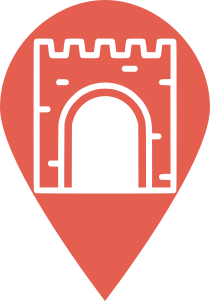
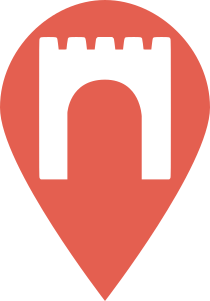
gps fixed

Changed region(s): [[0.1429, 0.1196, 0.8571, 0.6578]]

diff --git a/map/assets/js/map-bevagna-it.js b/map/assets/js/map-bevagna-it.js
@@ -312,9 +312,10 @@ var stores = {
         city: "Bevagna",
         country: "Italy",
         postalCode: "06031",
-        description_it: "Auditorium",
+        description_it: "La parrocchia fu fondata da un gruppo di 34 famiglie rifugiatesi a Bevagna in seguito alla distruzione, ordinata dal pontefice, dei castelli di Antignano, fedele a Federico II di Svevia.\n\n La chiesa, oggi sconsacrata e usata come Auditorium, conserva un bel portale con un rilievo che raffigura la Madonna che allatta il Bambino.",
         description_en: "Auditorium",
         markerType: "events",
+        img: "./assets/img/card_background/bevagna_santa_maria_laurentia1.jpg",
       },
     },
     {
@@ -387,7 +388,6 @@ var stores = {
         description_it: "Se non hai l'app Zappar potrai scaricarla cliccando sul link sottostante",
         description_en: "If you don't have the Zappar app, you'll be redirected to the app store to download it, then you can enjoy the portal!",
         markerType: "portals",
-        img: "./assets/img/Portal-TOCC-Untitled_project.svg",
         site: "https://webxr.run/Vb5Adgw582d6Z",
       },
     },
@@ -545,6 +545,7 @@ var stores = {
         description_it: "Chiesa principale di Bevagna",
         description_en: "Main church in Bevagna",
         markerType: "tourism",
+        img: "./assets/img/card_background/san_michele_arcangelo.jpeg"
       },
     },
     {
@@ -562,6 +563,7 @@ var stores = {
         description_it: "Chiesa di Bevagna",
         description_en: "Church in Bevagna",
         markerType: "tourism",
+        img: "./assets/img/card_background/san_silvestro.png"
       },
     },
     {
@@ -579,13 +581,14 @@ var stores = {
         description_it: "Edificata da Rainaldo I conte di Antignano, la chiesetta, oggi sconsacrata, è la più antica tra quelle conservate: se ne hanno notizie fin dal 1198.",
         description_en: "Built by Rainaldo I count of Antignano, the little church, now deconsecrated, is the oldest among those preserved: there are news of it since 1198.",
         markerType: "tourism",
+        img: "./assets/img/card_background/santa_maria_filiorum.jpeg"
       },
     },
     {
       type: "Feature",
       geometry: {
         type: "Point",
-        coordinates: [12.610415787761626, 42.93458778655827],
+        coordinates: [12.608365658627687, 42.932903552052515],
       }, 
       properties: {
         address_it: "Chiesa dei Santi Domenico e Giacomo",
@@ -755,6 +758,8 @@ var stores = {
   ],
 };
 
+
+
 /**
  * Assign a unique id to each store. You'll use this `id`
  * later to associate each point on the map with a listing
@@ -774,6 +779,33 @@ var geolocateControl = new mapboxgl.GeolocateControl({
 });
 
 map.addControl(geolocateControl);
+
+// Save geolocation status in localStorage
+function saveGeolocationStatus(isEnabled) {
+  localStorage.setItem('geolocationEnabled', isEnabled);
+}
+
+// Retrieve geolocation status from localStorage
+function getGeolocationStatus() {
+  return localStorage.getItem('geolocationEnabled') === 'true';
+}
+
+// Usage example when activating geolocation
+if (getGeolocationStatus()) {
+  // Code to activate geolocation
+  activateGeolocation();
+}
+
+// Update geolocation status whenever it's toggled
+function activateGeolocation() {
+  saveGeolocationStatus(true);
+  // Code to activate geolocation
+}
+
+function deactivateGeolocation() {
+  saveGeolocationStatus(false);
+  // Code to deactivate geolocation
+}
 
 /**
  * Wait until the map loads to make changes to the map.
@@ -844,7 +876,7 @@ function addMarkers() {
   });
 }
 
-// This functionis to translate the listings
+// This function is to translate the listings
 
 function updateAddresses(data) {
   var listings = document.getElementById("listings").children;
@@ -942,16 +974,15 @@ function makeHighlight(currentFeature) {
 
 // FILTER
 
+let selectedType = 'all';
 function filter() {
-  const selectedType = document.getElementById('filter-dropdown').value;
+  selectedType = document.getElementById('filter-dropdown').value;
 
   const filteredListings = stores.features.filter(store => 
       selectedType === 'all' || store.properties.markerType === selectedType
   );
 
-  console.log(filteredListings);
-
   var listings = document.getElementById("listings");
-  listings.innerHTML = ''; // Clear existing listings 
+  listings.innerHTML = '';
   buildLocationList({ type: 'FeatureCollection', features: filteredListings });
 }

diff --git a/map/assets/js/main.js b/map/assets/js/main.js
@@ -8,6 +8,7 @@ const story = document.getElementById("story");
 const backButton = document.getElementById('back-to-index');
 const portal = document.getElementById('portals');
 
+
 const hideInfoCard = () => {
     console.log("Hide info card");
     infoCard.setAttribute("hidden", "hidden");
@@ -26,14 +27,15 @@ const showInfoCard = (title_it, title_en, description_it, description_en, portal
         cardDescription.innerText = description_en;
     }
 
-    // TODO shows the image for the portal
-    // if (markerType == "portals") {
-    //     var img = document.createElement("img");
-    //     img.src = portal_img;
-    //     img.alt = "collegamento al portale";
+    // shows the image for the portal
+    if (portal_img) {
+        var img = document.createElement("img");
+        img.src = portal_img;
+        img.alt = "collegamento al portale";
+        img.classList = "img-background";
 
-    //     cardDescription.appendChild(img);
-    // }
+        cardTitle.append(img);
+    }
 
     // shows the link for the portal
     if (markerType == "portals" || markerType == "crafts") {
@@ -61,18 +63,11 @@ const showSidebar = () => {
 };
 
 const back2Index = () => {
-    if (language == "it") {
-        console.log(language);
-        window.location.href = "index.html"
-        language = "it";
-    } else {
-        console.log(language);
-        window.location.href = "index.html"
-        language = "en";
-    }
+    infoCard.setAttribute("hidden", "hidden");
+    mapContainer.removeAttribute("hidden");
 };
 
-// TRANSLATION FUNCTIONS
+// TRANSLATION FUNCTION
 const translations = {
     en: {
         filterOptions: [
@@ -86,6 +81,7 @@ const translations = {
     }
 };
 function translate(language) {
+
     document.getElementById('all').innerHTML = translations[language].filterOptions[0];
     document.getElementById('default').innerHTML = translations[language].filterOptions[1];
     document.getElementById('infopoint').innerHTML = translations[language].filterOptions[2];
@@ -141,18 +137,23 @@ function translate(language) {
             this.parentNode.classList.add("active");
         });
     });
+
+    // document.getElementById('filter-dropdown').value = selectedType;
+    filter();
+
 }
 
 function english() {
     translate('en');
-    language = 'en';;
+    language = 'en';
 }
 
 function italian() {
     translate('it');
-    language = 'it';;
+    language = 'it';
 }
 
+// Automatically set the language based on the browser language setting
 if (navigator.language === "it" || navigator.language == "it-IT" || navigator.language == "it-CH") {
     language = "it";
     translate('it');

diff --git a/map/assets/css/main.css b/map/assets/css/main.css
@@ -1,5 +1,6 @@
 /* CUSTOM PROPERTIES */
 
+
 :root {
   /* Remember: put here only the variables that have a global scope. Otherwise it is better to insert them in the specific closure where they have to act upon. */
   --font-size: 1.1rem;
@@ -224,8 +225,10 @@ body {
 /* --------------------------- */
 
 #card-container {
+  
   position: absolute;
-  border: 1px solid black;
+  border: 6px double ;
+  border-radius: 25px;
   left: calc(50vw - 9em);
   top: 5%;
   width: 18em;
@@ -235,14 +238,24 @@ body {
   font-size: calc(var(--font-size) * 2);
   font-weight: 600;
   font-family: var(--font-family);
+  
 }
 
 #card-description {
   font-size: var(--font-size);
   font-family: var(--font-family);
   line-height: 150%;
-  margin: 0 5px;
+  margin: 0 4px 15px;
   text-align: justify;
+}
+
+.img-background {
+  margin-top: 30px;
+  width: 97%;
+  height: 100%;
+  background-size: cover;
+  background-repeat: no-repeat;
+  background-position: center center;
 }
 
 /* ---------------- */
@@ -312,7 +325,7 @@ body {
   font-weight: 700;
   text-decoration: none; 
   color: white; 
-  background-color: #EF7875; 
+  background-color: #29B8CE; 
   padding: 10px; 
   min-height: 150px;
   border-radius: 25px;
@@ -372,7 +385,7 @@ body {
   font-weight: 700;
   text-decoration: none;
   color: white;
-  background-color: #420ebb;
+  background-color: #1f089f;
   padding: 10px;
   min-height: 150px;
   border-radius: 25px;
@@ -497,7 +510,7 @@ body {
   cursor: pointer;
   height: 49px;
   width: 35px;
-  background-image: url("../img/markers/info\ point\ bianco\ 2.png");
+  background-image: url("../img/markers/Infopoint.png");
   background-size: cover;
 }
 
@@ -515,7 +528,7 @@ body {
   cursor: pointer;
   height: 49px;
   width: 35px;
-  background-image: url("../img/markers/04_icona\ fontana.png");
+  background-image: url("../img/markers/monumenti.png");
   background-size: cover;
 }
 
@@ -534,7 +547,7 @@ body {
   cursor: pointer;
   height: 49px;
   width: 35px;
-  background-image: url("../img/markers/puzzle\ da\ inviare.png");
+  background-image: url("../img/markers/Eventi.png");
   background-size: cover;
 }
 
@@ -553,7 +566,7 @@ body {
   cursor: pointer;
   height: 49px;
   width: 35px;
-  background-image: url("../img/markers/utlima\ icona\ posizione.png");
+  background-image: url("../img/markers/Parcheggio.png");
   background-size: cover;
 }
 
@@ -571,7 +584,7 @@ body {
   cursor: pointer;
   height: 49px;
   width: 35px;
-  background-image: url("../img/markers/01_mestieri\ seta.png");
+  background-image: url("../img/markers/01_mestieri\ candela\ \(1\).png");
   background-size: cover;
 }
 

diff --git a/map/index.html b/map/index.html
@@ -6,7 +6,9 @@
     <meta name="viewport" content="width=device-width, initial-scale=1.0">
     
     <title>Mappa Bevagna</title>
+    <!-- favicon -->
     <link rel="shortcut icon" href="./assets/img/ProvaLogo.svg" type="image/x-icon">
+    <!-- css -->
     <link rel="stylesheet" href="./assets/css/normalize.css" media="screen">
     <link rel="stylesheet" href="./assets/css/main.css" media="screen"> 
     <!-- fontawesome -->
